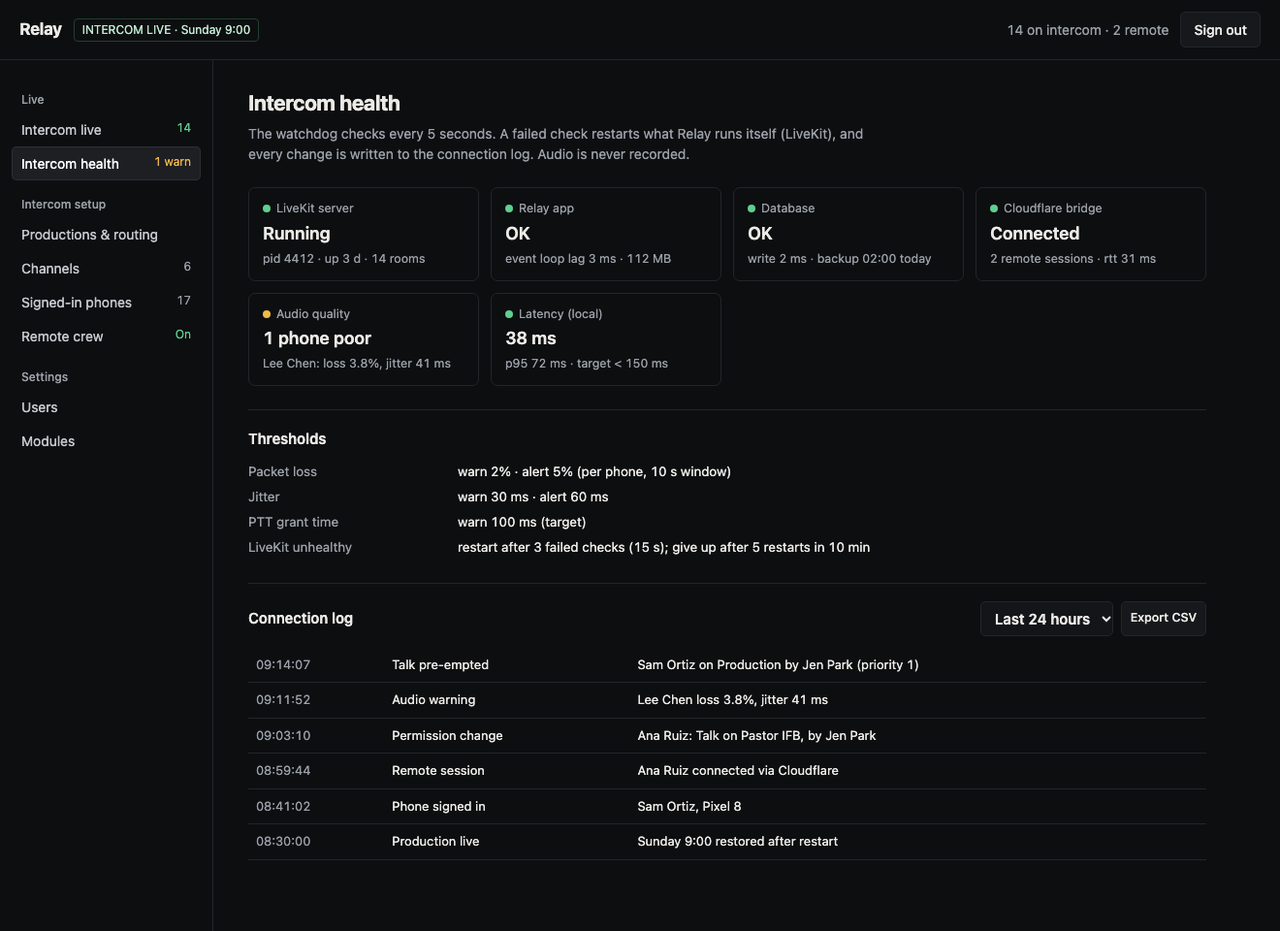
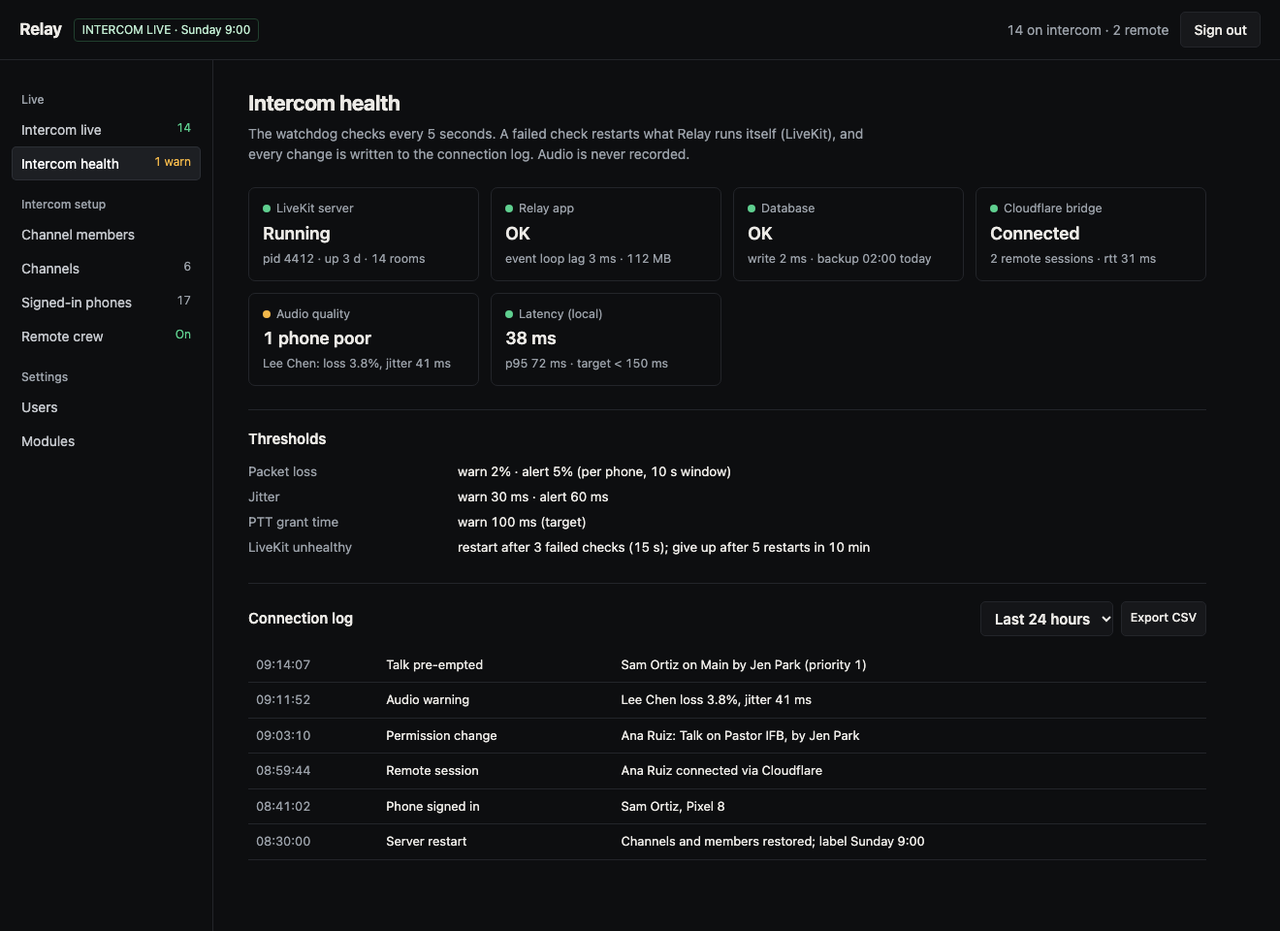
Intercom mockups: standing channel members, production as a label (part of #237)

diff --git a/docs/mockups/intercom/admin-intercom.html b/docs/mockups/intercom/admin-intercom.html
@@ -2,7 +2,7 @@
 <html lang="en"><head>
 <meta charset="utf-8"><meta name="viewport" content="width=device-width,initial-scale=1">
 <title>Relay · Intercom admin (mockup, #237)</title>
-<!-- Mockup only. Pages: #live #channels #productions #devices #health #remote (the last needs the intercom-remote module). -->
+<!-- Mockup only. Pages: #live #channels #members #devices #health #remote (the last needs the intercom-remote module). -->
 <style>
   :root { --bg:#0d0e10; --fg:#eceae6; --dim:#9aa0a8; --line:#23252a; --btn:#17181b; --ok:#5fcf8f; --warn:#f2b84b; --err:#f07a7a; }
   * { box-sizing:border-box; }
@@ -48,6 +48,7 @@
   .tl { display:inline-flex; gap:3px; }
   .tl b { font-size:11.5px; font-weight:600; width:22px; height:22px; display:inline-grid; place-items:center; border-radius:4px; border:1px solid var(--line); color:#6d727b; }
   .tl b.t { background:#3a1417; color:#ffc7c9; border-color:#6b2328; }
+  .pr { font-size:11.5px; color:var(--dim); margin-left:5px; }
   .tl b.l { background:#13233d; color:#c4dbff; border-color:#27467a; }
   .legend { font-size:12.5px; color:var(--dim); display:flex; gap:16px; margin-top:10px; flex-wrap:wrap; }
   .log td { font-size:13px; }
@@ -68,7 +69,7 @@
   <a href="#live" data-p="live">Intercom live<span class="badge ok">14</span></a>
   <a href="#health" data-p="health">Intercom health<span class="badge warn">1 warn</span></a>
   <div class="grp">Intercom setup</div>
-  <a href="#productions" data-p="productions">Productions &amp; routing</a>
+  <a href="#members" data-p="members">Channel members</a>
   <a href="#channels" data-p="channels">Channels<span class="badge">6</span></a>
   <a href="#devices" data-p="devices">Signed-in phones<span class="badge">17</span></a>
   <a href="#remote" data-p="remote">Remote crew<span class="badge ok">On</span></a>
@@ -80,17 +81,16 @@
 <!-- LIVE -->
 <div class="page" id="p-live">
   <h2>Intercom live</h2>
-  <p class="sub">Who is on, who is talking and on which channel. Changes here apply now and are logged; they don't change the saved production.</p>
+  <p class="sub">Who is on, who is talking and on which channel. Mutes here apply now and are logged; they don't change channel membership.</p>
   <div class="bar">
-    <label class="muted">Live production</label>
-    <select><option>Sunday 9:00 (Planning Center)</option><option>Sunday 11:00</option><option>Rehearsal</option></select>
+    <span class="muted">Production label</span> <b>Sunday 9:00</b>
     <span class="spacer"></span>
     <button>Release all talk</button><button class="danger">Mute all</button>
   </div>
   <section><h3>Channels now</h3>
   <table>
     <tr><th>Channel</th><th>Mode</th><th>Talking now</th><th class="c">Listening</th><th class="c">Waiting</th><th></th></tr>
-    <tr><td><span class="sw" style="background:#e5484d"></span>Production</td><td>Pre-empt</td><td><span class="pill talk">Jen · Director</span></td><td class="c">12</td><td class="c">–</td><td><button class="sm">Mute channel</button></td></tr>
+    <tr><td><span class="sw" style="background:#e5484d"></span>Main</td><td>Pre-empt</td><td><span class="pill talk">Jen · Director</span></td><td class="c">12</td><td class="c">–</td><td><button class="sm">Mute channel</button></td></tr>
     <tr><td><span class="sw" style="background:#f2b84b"></span>Cameras</td><td>Party line</td><td><span class="pill talk">Sam · Cam 1</span> <span class="pill talk">Lee · Cam 3</span></td><td class="c">5</td><td class="c">–</td><td><button class="sm">Mute channel</button></td></tr>
     <tr><td><span class="sw" style="background:#22c3a6"></span>Pastor IFB</td><td>One at a time</td><td><span class="pill talk">Ana · Producer</span></td><td class="c">1</td><td class="c">1</td><td><button class="sm">Mute channel</button></td></tr>
     <tr><td><span class="sw" style="background:#5b9cf5"></span>Audio</td><td>Party line</td><td class="muted">–</td><td class="c">4</td><td class="c">–</td><td><button class="sm">Mute channel</button></td></tr>
@@ -98,8 +98,8 @@
   <section><h3>Connected</h3>
   <table>
     <tr><th>User</th><th>Phone</th><th>Via</th><th>Talk</th><th>Listen</th><th>Loss</th><th>Jitter</th><th></th></tr>
-    <tr><td>Jen Park <span class="muted">Director · P1</span></td><td>iPhone 15</td><td><span class="dot"></span>Local</td><td>Production</td><td>All 4</td><td>0.1%</td><td>4 ms</td><td><button class="sm">Mute</button> <button class="sm">Sign out</button></td></tr>
-    <tr><td>Sam Ortiz <span class="muted">Cam 1 · P3</span></td><td>Pixel 8</td><td><span class="dot"></span>Local</td><td>Prod, Cameras</td><td>3</td><td>0.4%</td><td>7 ms</td><td><button class="sm">Mute</button> <button class="sm">Sign out</button></td></tr>
+    <tr><td>Jen Park <span class="muted">Director · P1</span></td><td>iPhone 15</td><td><span class="dot"></span>Local</td><td>Main</td><td>All 4</td><td>0.1%</td><td>4 ms</td><td><button class="sm">Mute</button> <button class="sm">Sign out</button></td></tr>
+    <tr><td>Sam Ortiz <span class="muted">Cam 1 · P3</span></td><td>Pixel 8</td><td><span class="dot"></span>Local</td><td>Main, Cameras</td><td>3</td><td>0.4%</td><td>7 ms</td><td><button class="sm">Mute</button> <button class="sm">Sign out</button></td></tr>
     <tr><td>Lee Chen <span class="muted">Cam 3 · P3</span></td><td>iPhone 13</td><td><span class="dot warn"></span>Local</td><td>Cameras</td><td>2</td><td style="color:var(--warn)">3.8%</td><td style="color:var(--warn)">41 ms</td><td><button class="sm">Mute</button> <button class="sm">Sign out</button></td></tr>
     <tr><td>Ana Ruiz <span class="muted">Producer · P2</span></td><td>iPad</td><td><span class="dot"></span>Remote</td><td>Pastor IFB</td><td>2</td><td>0.9%</td><td>18 ms</td><td><button class="sm">Mute</button> <button class="sm">Sign out</button></td></tr>
   </table></section>
@@ -111,13 +111,13 @@
   <p class="sub">Channels belong to Relay, not to LiveKit rooms: renaming or reordering never changes who can talk. Each channel picks how simultaneous talkers are handled.</p>
   <div class="bar"><button class="primary">New channel</button></div>
   <table>
-    <tr><th>Channel</th><th>When two people press talk</th><th>Max talkers</th><th>Lease</th><th>Used in</th><th></th></tr>
-    <tr><td><span class="sw" style="background:#e5484d"></span>Production</td><td><span class="pill">Pre-empt</span> higher priority cuts in</td><td>2</td><td>60 s</td><td>3 productions</td><td><button class="sm">Edit</button></td></tr>
-    <tr><td><span class="sw" style="background:#f2b84b"></span>Cameras</td><td><span class="pill">Party line</span> everyone talks</td><td>8</td><td>60 s</td><td>3 productions</td><td><button class="sm">Edit</button></td></tr>
-    <tr><td><span class="sw" style="background:#22c3a6"></span>Pastor IFB</td><td><span class="pill">One at a time</span> queue by priority</td><td>1</td><td>30 s</td><td>2 productions</td><td><button class="sm">Edit</button></td></tr>
-    <tr><td><span class="sw" style="background:#5b9cf5"></span>Audio</td><td><span class="pill">Party line</span></td><td>8</td><td>60 s</td><td>3 productions</td><td><button class="sm">Edit</button></td></tr>
-    <tr><td><span class="sw" style="background:#a78bfa"></span>Stage</td><td><span class="pill">Party line</span></td><td>8</td><td>60 s</td><td>2 productions</td><td><button class="sm">Edit</button></td></tr>
-    <tr><td><span class="sw" style="background:#9aa0a8"></span>Lighting</td><td><span class="pill">Pre-empt</span></td><td>2</td><td>60 s</td><td>1 production</td><td><button class="sm">Edit</button></td></tr>
+    <tr><th>Channel</th><th>When two people press talk</th><th>Max talkers</th><th>Lease</th><th>Members</th><th></th></tr>
+    <tr><td><span class="sw" style="background:#e5484d"></span>Main</td><td><span class="pill">Pre-empt</span> higher priority cuts in</td><td>2</td><td>60 s</td><td>12</td><td><button class="sm">Edit</button></td></tr>
+    <tr><td><span class="sw" style="background:#f2b84b"></span>Cameras</td><td><span class="pill">Party line</span> everyone talks</td><td>8</td><td>60 s</td><td>12</td><td><button class="sm">Edit</button></td></tr>
+    <tr><td><span class="sw" style="background:#22c3a6"></span>Pastor IFB</td><td><span class="pill">One at a time</span> queue by priority</td><td>1</td><td>30 s</td><td>4</td><td><button class="sm">Edit</button></td></tr>
+    <tr><td><span class="sw" style="background:#5b9cf5"></span>Audio</td><td><span class="pill">Party line</span></td><td>8</td><td>60 s</td><td>12</td><td><button class="sm">Edit</button></td></tr>
+    <tr><td><span class="sw" style="background:#a78bfa"></span>Stage</td><td><span class="pill">Party line</span></td><td>8</td><td>60 s</td><td>4</td><td><button class="sm">Edit</button></td></tr>
+    <tr><td><span class="sw" style="background:#9aa0a8"></span>Lighting</td><td><span class="pill">Pre-empt</span></td><td>2</td><td>60 s</td><td>2</td><td><button class="sm">Edit</button></td></tr>
   </table>
   <section style="margin-top:28px"><h3>Edit · Pastor IFB</h3>
     <div class="kv">
@@ -131,25 +131,29 @@
 </div>
 
 <!-- PRODUCTIONS -->
-<div class="page" id="p-productions">
-  <h2>Productions &amp; routing</h2>
-  <p class="sub">A production is a saved setup: which users are on which channels, with talk and listen rights and a priority. Make one by hand, copy one, or build one from a Planning Center plan. A restart brings back the live production.</p>
+<div class="page" id="p-members">
+  <h2>Channel members</h2>
+  <p class="sub">Who is on each channel. Set it once; it stays the same from service to service until an admin changes it. Members get Talk and/or Listen, and on the phone they choose which of their channels to talk and listen on.</p>
   <div class="bar">
-    <select><option>Sunday 9:00 · Planning Center · Live</option><option>Sunday 11:00</option><option>Youth Wednesday</option><option>Rehearsal (manual)</option></select>
-    <button>Copy to new…</button><button>Import crew from Planning Center plan</button>
-    <span class="spacer"></span><button class="primary">Make live</button>
+    <input placeholder="Search users" style="width:240px"><button>Add user to channels</button>
+    <span class="spacer"></span><span class="muted">Saved · changes reach connected phones within a second</span>
   </div>
-  <div class="callout">From Planning Center: Sunday 9:00, Nov 16. 2 scheduled people have no Relay account (Mark B., Tess K.); they're skipped until an admin makes one.</div>
   <table>
-    <tr><th>User</th><th>Priority</th><th class="c">Production</th><th class="c">Cameras</th><th class="c">Pastor IFB</th><th class="c">Audio</th><th class="c">Stage</th><th class="c">Lighting</th><th>Remote</th></tr>
-    <tr><td>Jen Park <span class="muted">Director</span></td><td>1</td><td class="c"><span class="tl"><b class="t">T</b><b class="l">L</b></span></td><td class="c"><span class="tl"><b class="t">T</b><b class="l">L</b></span></td><td class="c"><span class="tl"><b class="t">T</b><b class="l">L</b></span></td><td class="c"><span class="tl"><b class="t">T</b><b class="l">L</b></span></td><td class="c"><span class="tl"><b class="t">T</b><b class="l">L</b></span></td><td class="c"><span class="tl"><b class="t">T</b><b class="l">L</b></span></td><td class="muted">–</td></tr>
-    <tr><td>Ana Ruiz <span class="muted">Producer</span></td><td>2</td><td class="c"><span class="tl"><b class="t">T</b><b class="l">L</b></span></td><td class="c"><span class="tl"><b>T</b><b>L</b></span></td><td class="c"><span class="tl"><b class="t">T</b><b class="l">L</b></span></td><td class="c"><span class="tl"><b>T</b><b>L</b></span></td><td class="c"><span class="tl"><b>T</b><b>L</b></span></td><td class="c"><span class="tl"><b>T</b><b>L</b></span></td><td><span class="pill ok">Allowed</span></td></tr>
-    <tr><td>Sam Ortiz <span class="muted">Cam 1</span></td><td>3</td><td class="c"><span class="tl"><b class="t">T</b><b class="l">L</b></span></td><td class="c"><span class="tl"><b class="t">T</b><b class="l">L</b></span></td><td class="c"><span class="tl"><b>T</b><b>L</b></span></td><td class="c"><span class="tl"><b>T</b><b class="l">L</b></span></td><td class="c"><span class="tl"><b>T</b><b class="l">L</b></span></td><td class="c"><span class="tl"><b>T</b><b>L</b></span></td><td class="muted">–</td></tr>
-    <tr><td>Lee Chen <span class="muted">Cam 3</span></td><td>3</td><td class="c"><span class="tl"><b>T</b><b class="l">L</b></span></td><td class="c"><span class="tl"><b class="t">T</b><b class="l">L</b></span></td><td class="c"><span class="tl"><b>T</b><b>L</b></span></td><td class="c"><span class="tl"><b>T</b><b>L</b></span></td><td class="c"><span class="tl"><b>T</b><b>L</b></span></td><td class="c"><span class="tl"><b>T</b><b>L</b></span></td><td class="muted">–</td></tr>
-    <tr><td>Rob Diaz <span class="muted">A1</span></td><td>2</td><td class="c"><span class="tl"><b class="t">T</b><b class="l">L</b></span></td><td class="c"><span class="tl"><b>T</b><b>L</b></span></td><td class="c"><span class="tl"><b>T</b><b>L</b></span></td><td class="c"><span class="tl"><b class="t">T</b><b class="l">L</b></span></td><td class="c"><span class="tl"><b class="t">T</b><b class="l">L</b></span></td><td class="c"><span class="tl"><b>T</b><b>L</b></span></td><td class="muted">–</td></tr>
-    <tr><td>Pastor Dan <span class="muted">Talent</span></td><td>4</td><td class="c"><span class="tl"><b>T</b><b>L</b></span></td><td class="c"><span class="tl"><b>T</b><b>L</b></span></td><td class="c"><span class="tl"><b>T</b><b class="l">L</b></span></td><td class="c"><span class="tl"><b>T</b><b>L</b></span></td><td class="c"><span class="tl"><b>T</b><b>L</b></span></td><td class="c"><span class="tl"><b>T</b><b>L</b></span></td><td class="muted">–</td></tr>
+    <tr><th>User</th><th class="c">Main</th><th class="c">Cameras</th><th class="c">Pastor IFB</th><th class="c">Audio</th><th class="c">Stage</th><th class="c">Lighting</th><th></th></tr>
+    <tr><td>Jen Park <span class="muted">Director</span></td><td class="c"><span class="tl"><b class="t">T</b><b class="l">L</b></span><span class="pr">P1</span></td><td class="c"><span class="tl"><b class="t">T</b><b class="l">L</b></span></td><td class="c"><span class="tl"><b class="t">T</b><b class="l">L</b></span><span class="pr">P1</span></td><td class="c"><span class="tl"><b class="t">T</b><b class="l">L</b></span></td><td class="c"><span class="tl"><b class="t">T</b><b class="l">L</b></span></td><td class="c"><span class="tl"><b class="t">T</b><b class="l">L</b></span><span class="pr">P1</span></td><td><button class="sm">Edit</button></td></tr>
+    <tr><td>Ana Ruiz <span class="muted">Producer</span></td><td class="c"><span class="tl"><b class="t">T</b><b class="l">L</b></span><span class="pr">P2</span></td><td class="c"><span class="tl"><b>T</b><b>L</b></span></td><td class="c"><span class="tl"><b class="t">T</b><b class="l">L</b></span><span class="pr">P2</span></td><td class="c"><span class="tl"><b>T</b><b>L</b></span></td><td class="c"><span class="tl"><b>T</b><b>L</b></span></td><td class="c"><span class="tl"><b>T</b><b>L</b></span></td><td><button class="sm">Edit</button></td></tr>
+    <tr><td>Sam Ortiz <span class="muted">Cam 1</span></td><td class="c"><span class="tl"><b class="t">T</b><b class="l">L</b></span><span class="pr">P3</span></td><td class="c"><span class="tl"><b class="t">T</b><b class="l">L</b></span></td><td class="c"><span class="tl"><b>T</b><b>L</b></span></td><td class="c"><span class="tl"><b>T</b><b class="l">L</b></span></td><td class="c"><span class="tl"><b>T</b><b class="l">L</b></span></td><td class="c"><span class="tl"><b>T</b><b>L</b></span></td><td><button class="sm">Edit</button></td></tr>
+    <tr><td>Lee Chen <span class="muted">Cam 3</span></td><td class="c"><span class="tl"><b>T</b><b class="l">L</b></span></td><td class="c"><span class="tl"><b class="t">T</b><b class="l">L</b></span></td><td class="c"><span class="tl"><b>T</b><b>L</b></span></td><td class="c"><span class="tl"><b>T</b><b>L</b></span></td><td class="c"><span class="tl"><b>T</b><b>L</b></span></td><td class="c"><span class="tl"><b>T</b><b>L</b></span></td><td><button class="sm">Edit</button></td></tr>
+    <tr><td>Rob Diaz <span class="muted">A1</span></td><td class="c"><span class="tl"><b class="t">T</b><b class="l">L</b></span><span class="pr">P2</span></td><td class="c"><span class="tl"><b>T</b><b>L</b></span></td><td class="c"><span class="tl"><b>T</b><b>L</b></span></td><td class="c"><span class="tl"><b class="t">T</b><b class="l">L</b></span></td><td class="c"><span class="tl"><b class="t">T</b><b class="l">L</b></span></td><td class="c"><span class="tl"><b>T</b><b>L</b></span></td><td><button class="sm">Edit</button></td></tr>
+    <tr><td>Pastor Dan <span class="muted">Talent</span></td><td class="c"><span class="tl"><b>T</b><b>L</b></span></td><td class="c"><span class="tl"><b>T</b><b>L</b></span></td><td class="c"><span class="tl"><b>T</b><b class="l">L</b></span></td><td class="c"><span class="tl"><b>T</b><b>L</b></span></td><td class="c"><span class="tl"><b>T</b><b>L</b></span></td><td class="c"><span class="tl"><b>T</b><b>L</b></span></td><td><button class="sm">Edit</button></td></tr>
   </table>
-  <div class="legend"><span><span class="tl"><b class="t">T</b></span> may talk</span><span><span class="tl"><b class="l">L</b></span> may listen</span><span>Priority 1 is highest; used by Pre-empt and One-at-a-time channels</span><span>Changes save in one transaction and reach connected phones within a second</span></div>
+  <div class="legend"><span><span class="tl"><b class="t">T</b></span> may talk</span><span><span class="tl"><b class="l">L</b></span> may listen</span><span><span class="pr">P1</span> talk priority on that channel (1 is highest), only used by Pre-empt and One-at-a-time channels</span></div>
+  <section style="margin-top:28px"><h3>Production label</h3>
+    <div class="kv">
+      <span>Shown on phones and in the log</span><span><input value="Sunday 9:00" style="width:220px"> <button class="sm">Use today's Planning Center plan name</button></span>
+      <span>Effect on channels</span><span class="muted">None. The label never changes who is on which channel.</span>
+    </div>
+  </section>
 </div>
 
 <!-- DEVICES -->
@@ -189,12 +193,12 @@
   </section>
   <section><h3>Connection log<span class="r"><select><option>Last 24 hours</option></select><button class="sm">Export CSV</button></span></h3>
   <table class="log">
-    <tr><td>09:14:07</td><td>Talk pre-empted</td><td>Sam Ortiz on Production by Jen Park (priority 1)</td></tr>
+    <tr><td>09:14:07</td><td>Talk pre-empted</td><td>Sam Ortiz on Main by Jen Park (priority 1)</td></tr>
     <tr><td>09:11:52</td><td>Audio warning</td><td>Lee Chen loss 3.8%, jitter 41 ms</td></tr>
     <tr><td>09:03:10</td><td>Permission change</td><td>Ana Ruiz: Talk on Pastor IFB, by Jen Park</td></tr>
     <tr><td>08:59:44</td><td>Remote session</td><td>Ana Ruiz connected via Cloudflare</td></tr>
     <tr><td>08:41:02</td><td>Phone signed in</td><td>Sam Ortiz, Pixel 8</td></tr>
-    <tr><td>08:30:00</td><td>Production live</td><td>Sunday 9:00 restored after restart</td></tr>
+    <tr><td>08:30:00</td><td>Server restart</td><td>Channels and members restored; label Sunday 9:00</td></tr>
   </table></section>
 </div>
 
@@ -212,9 +216,9 @@
   </section>
   <section><h3>Users allowed to connect remotely<span class="r"><button class="sm">Add user</button></span></h3>
   <table>
-    <tr><th>User</th><th>Channels (from the live production)</th><th>Now</th><th></th></tr>
-    <tr><td>Ana Ruiz</td><td>Production, Pastor IFB</td><td><span class="pill ok">Connected · 0.9% loss</span></td><td><button class="sm">Disconnect</button> <button class="sm">Remove</button></td></tr>
-    <tr><td>Rob Diaz</td><td>Production, Audio, Stage</td><td><span class="pill">Not connected</span></td><td><button class="sm">Remove</button></td></tr>
+    <tr><th>User</th><th>Channels (their memberships)</th><th>Now</th><th></th></tr>
+    <tr><td>Ana Ruiz</td><td>Main, Pastor IFB</td><td><span class="pill ok">Connected · 0.9% loss</span></td><td><button class="sm">Disconnect</button> <button class="sm">Remove</button></td></tr>
+    <tr><td>Rob Diaz</td><td>Main, Audio, Stage</td><td><span class="pill">Not connected</span></td><td><button class="sm">Remove</button></td></tr>
   </table></section>
 </div>
 

diff --git a/docs/mockups/intercom/crew-phone.html b/docs/mockups/intercom/crew-phone.html
@@ -112,7 +112,7 @@ Talk targets are chosen per channel, the big button talks to every channel marke
   </div>
   <div class="body">
     <div class="ch sel">
-      <div class="r1"><span class="sw" style="background:#e5484d"></span><span class="nm">Production</span>
+      <div class="r1"><span class="sw" style="background:#e5484d"></span><span class="nm">Main</span>
         <span class="tg t on">Talk</span><span class="tg l on">Listen</span></div>
       <div class="act live"><span class="eq"><i style="height:9px"></i><i style="height:5px"></i><i style="height:11px"></i></span>Director (Jen) talking</div>
       <div class="vol">Vol <span class="bar"><i style="width:80%"></i></span> 80</div>
@@ -136,13 +136,13 @@ Talk targets are chosen per channel, the big button talks to every channel marke
     </div>
   </div>
   <div class="foot">
-    <div class="tgt"><span>Talks to: <b style="color:var(--fg)">Production, Cameras</b></span><span>Space / volume key</span></div>
+    <div class="tgt"><span>Talks to: <b style="color:var(--fg)">Main, Cameras</b></span><span>Space / volume key</span></div>
     <div class="ptt">Hold to talk<small>Tap Latch to keep the mic open</small></div>
     <div class="opts"><span class="tg">Latch</span><span class="tg">Mute all listen</span><span class="tg">Call Director</span></div>
   </div>
   <div class="tabs"><span>Plan</span><span>Pages</span><span class="on">Intercom</span><span>Chat</span></div>
 </div>
-<figcaption><b>Idle.</b> Assigned channels only. Talk/Listen are the user's picks inside what the production allows; a struck-through Talk means listen-only rights. Status chips show local latency, remote link and headset.</figcaption>
+<figcaption><b>Idle.</b> Only the channels this user is a member of. Talk/Listen are the user's picks inside the rights an admin gave them; a struck-through Talk means listen-only rights. Status chips show local latency, remote link and headset.</figcaption>
 </figure>
 
 <!-- 3. Talking / pre-empted / queued -->
@@ -154,9 +154,9 @@ Talk targets are chosen per channel, the big button talks to every channel marke
     <div class="chips"><span class="chip ok"><span class="d"></span>Local · 38 ms</span><span class="chip ok"><span class="d"></span>Remote online</span></div>
   </div>
   <div class="body">
-    <div class="banner err"><b>Cut off on Production.</b> Director has priority on this channel. You're still talking on Cameras.</div>
+    <div class="banner err"><b>Cut off on Main.</b> Director has priority on this channel. You're still talking on Cameras.</div>
     <div class="ch sel">
-      <div class="r1"><span class="sw" style="background:#e5484d"></span><span class="nm">Production</span><span class="chip" style="font-size:11.5px">Pre-empt</span>
+      <div class="r1"><span class="sw" style="background:#e5484d"></span><span class="nm">Main</span><span class="chip" style="font-size:11.5px">Pre-empt</span>
         <span class="tg t on">Talk</span><span class="tg l on">Listen</span></div>
       <div class="act live"><span class="eq"><i style="height:10px"></i><i style="height:6px"></i><i style="height:12px"></i></span>Director (Jen) · priority 1</div>
     </div>
@@ -192,7 +192,7 @@ Talk targets are chosen per channel, the big button talks to every channel marke
   <div class="body">
     <div class="banner warn"><b>Lost the link to the church.</b> Their internet is down; crew on site can still talk to each other. Reconnecting in 16 s (try 4).</div>
     <div class="ch" style="opacity:.45">
-      <div class="r1"><span class="sw" style="background:#e5484d"></span><span class="nm">Production</span><span class="tg t on">Talk</span><span class="tg l on">Listen</span></div>
+      <div class="r1"><span class="sw" style="background:#e5484d"></span><span class="nm">Main</span><span class="tg t on">Talk</span><span class="tg l on">Listen</span></div>
       <div class="act">Unavailable while disconnected</div>
     </div>
     <div class="ch" style="opacity:.45">

diff --git a/.trail/learnings/2026-11-14-intercom-channels-have-standing-members-a-justin.md b/.trail/learnings/2026-11-14-intercom-channels-have-standing-members-a-justin.md
@@ -1,0 +1,28 @@
+---
+title: Intercom channels have standing members; a production is only a label
+author: Justin
+date: 2026-11-14
+branch: intercom-specs-237
+cost: { minutes: 1, tokens: 3488 }
+id: l-b89133ba
+scope: repo
+status: active
+replaces: l-2a320952
+src: agent
+---
+
+## Decided
+Justin (2026-11-14, epic 237) chose standing channel membership: intercom channels are permanent and users are added to them with Talk and/or Listen rights, set once and left alone from service to service. A user on several channels picks which to talk and listen on from the phone. Talk priority is set per user per channel and only matters on Pre-empt and One-at-a-time channels; each channel picks one of three modes (pre-empt, party line, one at a time with a priority queue).
+He chose to make a production a display label for phones and the log (optionally named from that day's Planning Center plan), with no effect on channel membership, because the crew on each channel rarely changes.
+The rest of the earlier design stands: user-based phones with a per-device credential that silently rotates every 30 days, no Redis (live state in asyncio, durable state in SQLite), single tenant with a company_id column, web crew page first with a native app later, remote crew through a separate intercom-remote module on Cloudflare Realtime with a per-user "remote allowed" flag, secrets and backups encrypted, watchdog for LiveKit, the app, the database, Cloudflare and audio loss/jitter (no Wi-Fi AP checks).
+
+## Tried and ruled out
+- Per-production routing (each production holding its own copy of membership): Justin wants membership set once.
+- Productions adding temporary members for an event: not chosen; label only.
+- One global priority per user: per channel lets the director outrank people on Main without outranking them everywhere.
+- Redis (extra binary to ship), multi-tenancy (one organisation per server), position-based phones (identity follows the user), whole-file SQLCipher (native builds on three platforms), Wi-Fi AP checks (dropped by Justin).
+
+## Watch out
+- iOS Safari is weak at background audio and lock-screen PTT; that is why a native app is planned to join later.
+
+In the code: mockups in docs/mockups/intercom/; the routing screen is admin-intercom.html#members.
